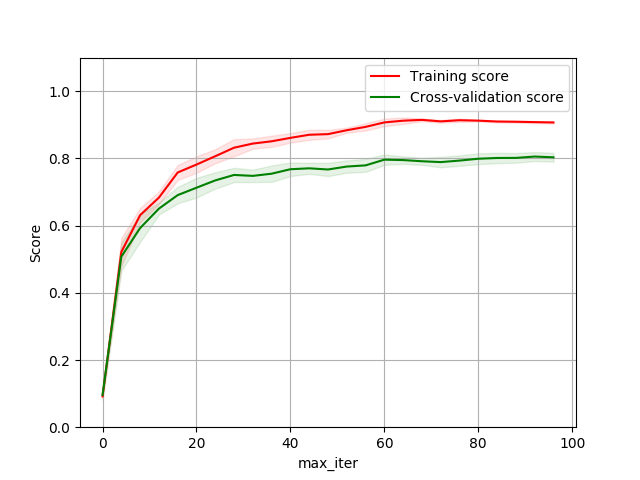
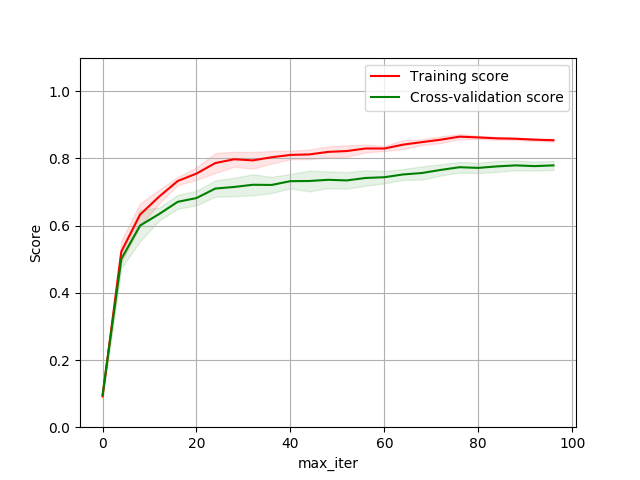
Sfdsf

Changed region(s): [[0.1875, 0.2188, 0.875, 0.5625], [0.1562, 0.625, 0.1875, 0.6562]]

diff --git a/HW_1/DT_HW1.py b/HW_1/DT_HW1.py
@@ -616,7 +616,7 @@ def ann_vld_curve_1(dataset_name, X_train, y_train, hidden_layer_sizes=(5, ), ma
     # cv = None
     param_range = []
     alter_list = []
-    for i in range(1,400,20):
+    for i in range(1,120,20):
         param_range.append((i,))
         alter_list.append(i)
     train_scores, test_scores = validation_curve(clf, X_train, y_train,
@@ -827,12 +827,12 @@ if __name__=="__main__":
     # # post-parameter adjustment
     decision_tree_learning_curve_size_post(set2_name, X2_train, y2_train, min_samples_leaf=33, max_depth=None)
     boost_dt_learning_curve_size_post(set2_name, X2_train, y2_train, min_samples_leaf=113, n_estimators=40, learning_rate = 0.5125)
-    ann_learning_curve_size_post(set2_name, X2_train, y2_train, hidden_layer_sizes=(200, ), alpha=0.417)
+    ann_learning_curve_size_post(set2_name, X2_train, y2_train, hidden_layer_sizes=(50, ), alpha=0.417)
     knn_learning_curve_size_post(set2_name, X2_train, y2_train, n_neighbors=1, algorithm='auto')
     svm_learning_curve_size_post(set2_name, X2_train, y2_train, C=50 , kernel='rbf', max_iter=-1)
     #
     boost_dt_learning_curve_epoch_post(set2_name, X2_train, y2_train, min_samples_leaf=113, n_estimators=40, learning_rate = 0.5125)
-    ann_learning_curve_epoch_post(set2_name, X2_train, y2_train, hidden_layer_sizes=(200, ), alpha=0.417)
+    ann_learning_curve_epoch_post(set2_name, X2_train, y2_train, hidden_layer_sizes=(50, ), alpha=0.417)
     svm_learning_curve_epoch_post(set2_name, X2_train, y2_train, C=50 , kernel='rbf', max_iter=-1)
 
 
